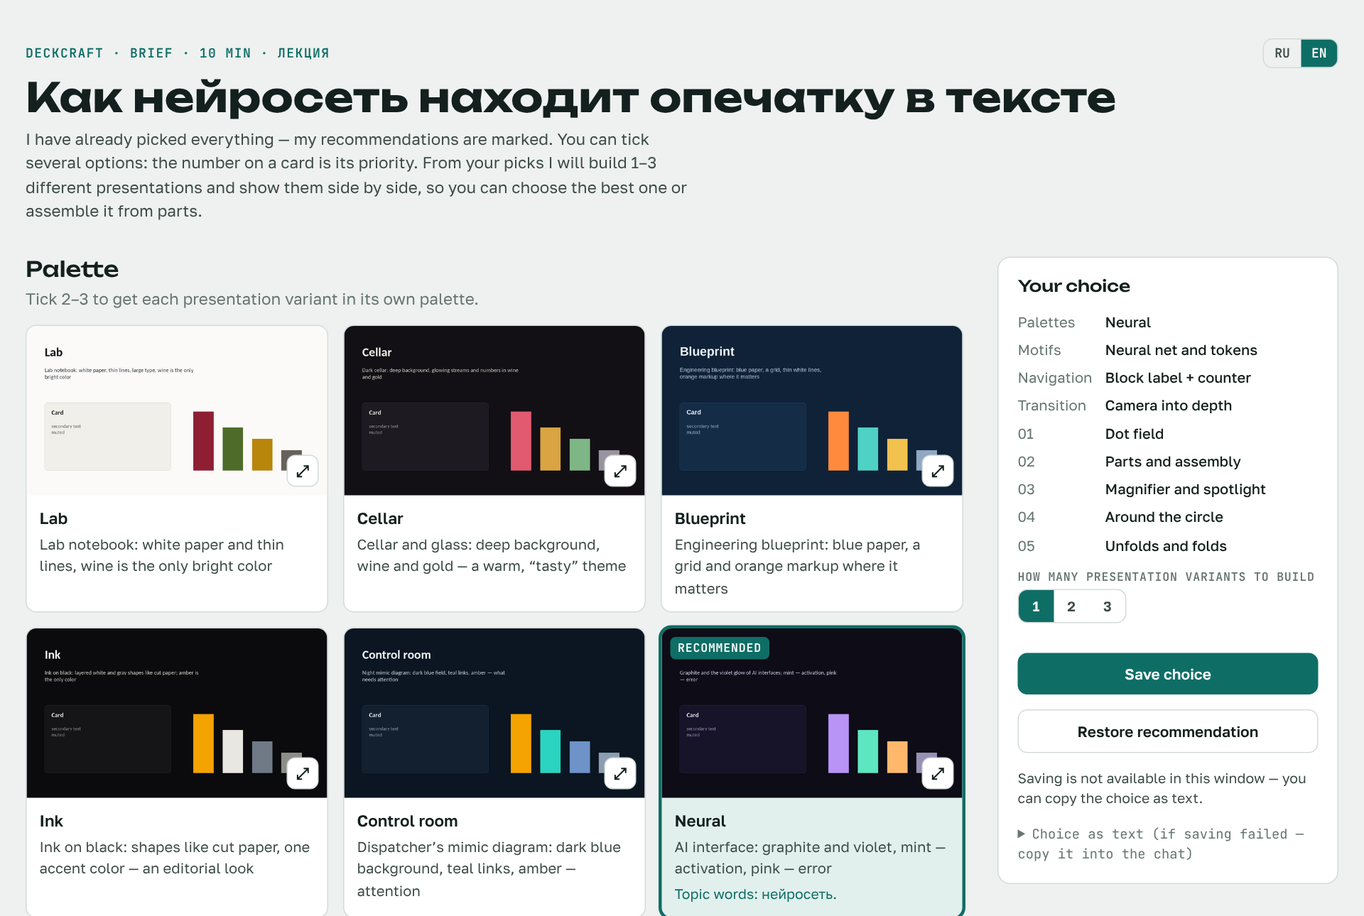
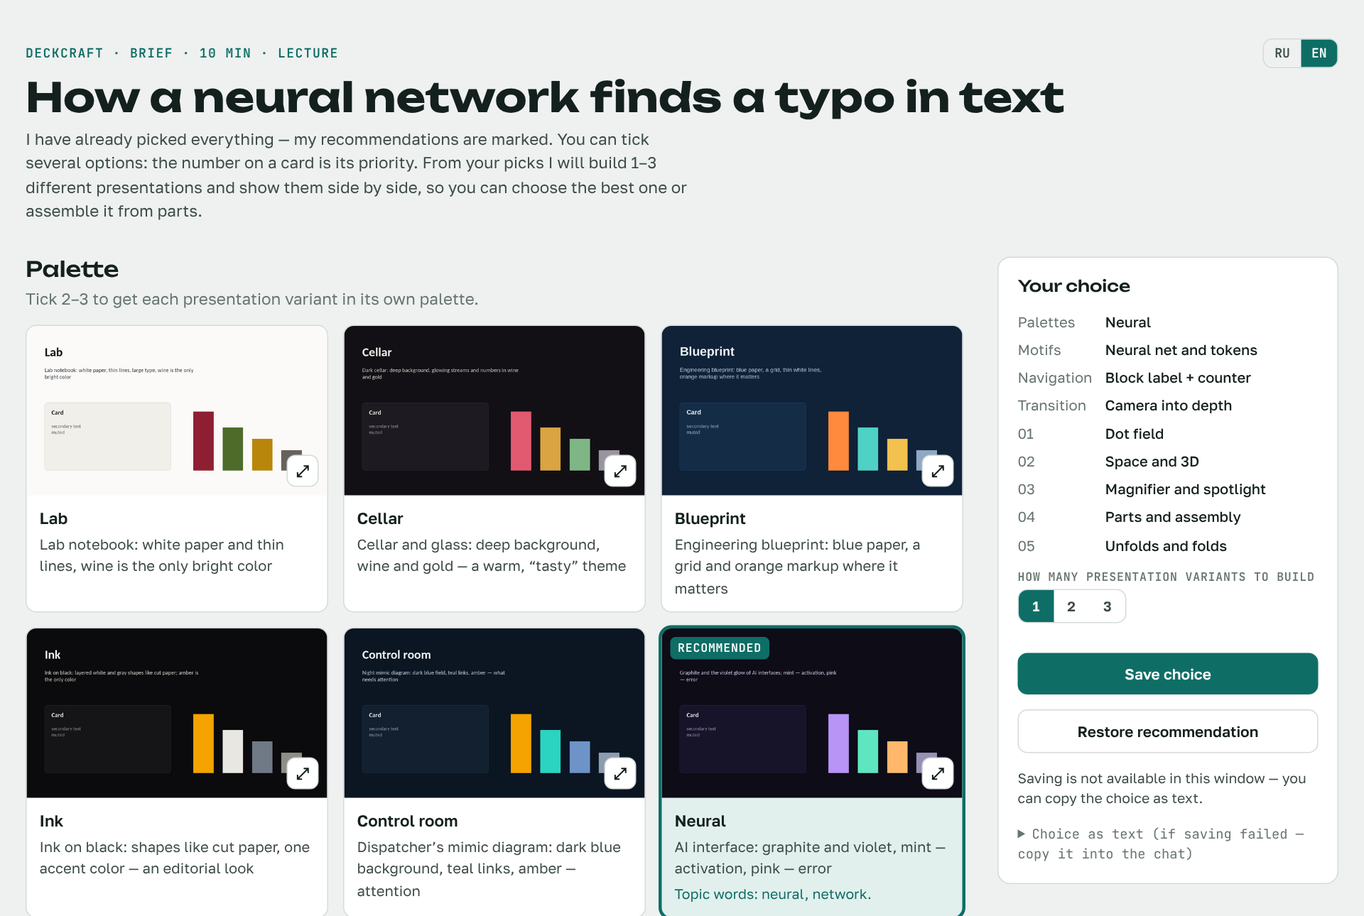
deckcraft 0.2.1: RU/EN switch translates the user's topic, sections and audience
- brief_page.py --alt-topic/--alt-sections/--alt-audience, compare_page.py --alt-topic;
  the choice is kept by the original section names; topic words come from the translated text
- README: English survey screenshot from an English page

Claude-Session: https://claude.ai/code/session_01E4yib89GjrqZMM9aE3pA1m

diff --git a/plugins/deckcraft/skills/deck-brief/scripts/brief_page.html b/plugins/deckcraft/skills/deck-brief/scripts/brief_page.html
@@ -165,15 +165,17 @@ function langSwitch(onChange) {
 
 
 let rec = DATA.brief;
+const K = s => s.key || s.section;  // section key = its name as the user wrote it; s.section is shown
 const AX = [["palette", "palettes"], ["motif", "motifs"], ["navigation", "navigation"]];
 // Состояние v2: в осях — списки (порядок = приоритет), у разделов — пул языков (первый — ведущий)
 const recState = () => ({
   palettes: [rec.palette.key], motifs: [rec.motif.key], navigation: [rec.navigation.key],
   transition: { main: rec.transition.key, accents: [] },
-  sections: Object.fromEntries(rec.sections.map(s => [s.section, [s.motion]])), variants: 1, notes: ""
+  sections: Object.fromEntries(rec.sections.map(s => [K(s), [s.motion]])), variants: 1, notes: ""
 });
 let state = recState();
 const draftKey = "deckbrief2:" + (DATA.id || rec.topic);
+const topic0 = (PACK[PACK.lang] || DATA).brief.topic;  // the topic as the user wrote it — the saved choice uses it
 try { const d = JSON.parse(localStorage.getItem(draftKey) || "null"); if (d && d.palettes) state = { ...state, ...d }; } catch (e) {}
 
 const $ = (s, el = document) => el.querySelector(s);
@@ -269,20 +271,20 @@ function render() {
   ]));
   main.append(det);
 
-  const recMap = Object.fromEntries(rec.sections.map(s => [s.section, s]));
+  const recMap = Object.fromEntries(rec.sections.map(s => [K(s), s]));
   main.append(h("section", { id: "langs" }, [
     h("h2", { text: T("Язык движения по разделам") }),
     h("p", { class: "hint", text: T("Отметьте 1–3 языка на раздел. Первый — ведущий, остальные — вставками внутри раздела; ")
       + T("в вариантах презентации ведущим по очереди становится следующий. ★ — моя рекомендация.") }),
     h("div", { class: "rows" }, rec.sections.map(s => {
-      const pool = state.sections[s.section] || (state.sections[s.section] = [s.motion]);
+      const pool = state.sections[K(s)] || (state.sections[K(s)] = [s.motion]);
       const byKey = Object.fromEntries(DATA.motion.map(m => [m.key, m]));
       const lead = byKey[pool[0]] || DATA.motion[0];
       const img = h("img", { class: "zoomable", src: lead.img || "", alt: T("Превью: ") + lead.title, loading: "lazy" });
       const cap = h("span", { class: "cap", text: lead.title });
       const show = m => { if (m && m.img) { img.src = m.img; img.alt = T("Превью: ") + m.title; cap.textContent = m.title; } };
       return h("div", { class: "row" }, [
-        h("div", { class: "sec" }, [document.createTextNode(s.section), h("small", { text: recMap[s.section].reason })]),
+        h("div", { class: "sec" }, [document.createTextNode(s.section), h("small", { text: recMap[K(s)].reason })]),
         h("div", { class: "pv", title: T("Как выглядит ведущий язык; наведите на вариант справа, чтобы посмотреть его") }, [img, cap]),
         h("div", { class: "chips" }, DATA.motion.map(m => {
           const pos = pool.indexOf(m.key);
@@ -339,7 +341,7 @@ function summary() {
   add(T("Навигация"), titles(DATA.navigation, state.navigation));
   add(T("Переход"), titleOf(DATA.transitions, state.transition.main)
     + (state.transition.accents.length ? " + " + titles(DATA.accents, state.transition.accents) : ""));
-  rec.sections.forEach((s, i) => add(String(i + 1).padStart(2, "0"), titles(DATA.motion, state.sections[s.section] || [])));
+  rec.sections.forEach((s, i) => add(String(i + 1).padStart(2, "0"), titles(DATA.motion, state.sections[K(s)] || [])));
 
   const nv = $("#nvar"); nv.replaceChildren();
   [1, 2, 3].forEach(n => nv.append(h("button", { type: "button", "aria-pressed": String(state.variants === n), text: String(n),
@@ -358,8 +360,8 @@ function summary() {
 }
 
 function payload() {
-  return { schema: 2, topic: rec.topic, palettes: state.palettes, motifs: state.motifs, navigation: state.navigation,
-    transition: state.transition, sections: Object.fromEntries(rec.sections.map(s => [s.section, state.sections[s.section]])),
+  return { schema: 2, topic: topic0, palettes: state.palettes, motifs: state.motifs, navigation: state.navigation,
+    transition: state.transition, sections: Object.fromEntries(rec.sections.map(s => [K(s), state.sections[K(s)]])),
     variants: state.variants, notes: state.notes || "" };
 }
 function persist() { try { localStorage.setItem(draftKey, JSON.stringify(state)); } catch (e) {} }
@@ -404,7 +406,7 @@ render();
     } else if (saved && saved.palette) {  // выбор из версии 0.1: по одному пункту — переносим в списки
       state.palettes = [saved.palette]; state.motifs = [saved.motif]; state.navigation = [saved.navigation];
       state.transition = { main: saved.transition, accents: [] };
-      for (const s of saved.sections || []) if (s.section in state.sections) state.sections[s.section] = [s.motion];
+      for (const s of saved.sections || []) if (K(s) in state.sections) state.sections[K(s)] = [s.motion];
       state.notes = saved.notes || ""; render(); status(T("Загружен ваш прошлый выбор — теперь можно отметить по несколько вариантов."));
     }
   } catch (e) { /* чтение без доступа — работаем локально */ }

diff --git a/plugins/deckcraft/skills/pptx-morph/scripts/morphkit/catalog.py b/plugins/deckcraft/skills/pptx-morph/scripts/morphkit/catalog.py
@@ -210,7 +210,9 @@ def auto_brief(topic: str, sections: list[str], audience: str = "", minutes: int
 
 def localize_brief(brief: dict, lang: str) -> dict:
     """Тот же бриф (те же ключи и совпавшие слова темы) с подписями и причинами на языке lang —
-    для переключателя языка на странице опроса. Тема, разделы и аудитория остаются как написал пользователь."""
+    для переключателя языка на странице опроса. Тему, разделы и аудиторию на втором языке даёт brief["alt"][lang]
+    ({"topic", "audience", "sections": [...]}, их пишет Claude при создании брифа); без него они остаются как
+    написал пользователь. У каждого раздела key — исходное название: выбор на странице хранится по нему."""
     from .i18n import tr, ui
     from .palette import CATALOG
 
@@ -234,17 +236,42 @@ def localize_brief(brief: dict, lang: str) -> dict:
                 "reason": w[0].upper() + w[1:] + (f". {ui('topic_words', lang)}: {', '.join(hits)}." if hits else ".")}
 
     b = brief
+    alt = (b.get("alt") or {}).get(lang) or {}
+    names = alt.get("sections") or []
+
+    def words(tags, text, fallback):
+        """Topic words on the page's language: matched in the translated text if there is one."""
+        if not text:
+            return list(fallback or [])
+        low, hits = text.lower(), []
+        for t in tags:
+            m = re.search(r"\b" + t, low)
+            if m:
+                hits.append(re.match(r"\w+", low[m.start():]).group(0))
+        return list(dict.fromkeys(hits))
+
+    tags_of = lambda choices, key: next((c.tags for c in choices if c.key == key), [])  # noqa: E731
+    ph = words(pals[b["palette"]["key"]].tags if b["palette"]["key"] in pals else [], alt.get("topic"),
+               b["palette"].get("hits"))
+    mh = words(tags_of(MOTIFS, b["motif"]["key"]), alt.get("topic"), b["motif"].get("hits"))
     out = dict(b, lang=lang)
-    out["palette"] = {**pal(b["palette"]["key"], b["palette"].get("hits") or []), "hits": b["palette"].get("hits") or [],
+    out["palette"] = {**pal(b["palette"]["key"], ph), "hits": ph,
                       "alternatives": [pal(a["key"]) for a in b["palette"].get("alternatives", [])]}
     m = b["motif"]
-    out["motif"] = {"key": m["key"], "title": title(MOTIFS, m["key"]), "hits": m.get("hits") or [],
-                    "reason": why(MOTIFS, m["key"], m.get("hits") or []),
+    out["motif"] = {"key": m["key"], "title": title(MOTIFS, m["key"]), "hits": mh,
+                    "reason": why(MOTIFS, m["key"], mh),
                     "alternatives": [{"key": a["key"], "title": title(MOTIFS, a["key"])} for a in m.get("alternatives", [])]}
     out["navigation"] = {"key": b["navigation"]["key"], "title": title(NAVIGATION, b["navigation"]["key"])}
     out["transition"] = {"key": b["transition"]["key"], "title": title(TRANSITIONS, b["transition"]["key"])}
-    out["sections"] = [dict(s, title=title(MOTION, s["motion"]), reason=why(MOTION, s["motion"], s.get("hits") or []))
-                       for s in b.get("sections", [])]
+    secs = []
+    for k, s_ in enumerate(b.get("sections", [])):
+        nm = names[k] if k < len(names) and names[k] else ""
+        hh = words(tags_of(MOTION, s_["motion"]), nm, s_.get("hits"))
+        secs.append(dict(s_, key=s_.get("key") or s_["section"], section=nm or s_["section"], hits=hh,
+                         title=title(MOTION, s_["motion"]), reason=why(MOTION, s_["motion"], hh)))
+    out["sections"] = secs
+    out["topic"] = alt.get("topic") or b["topic"]
+    out["audience"] = alt.get("audience") or b.get("audience", "")
     return out
 
 

diff --git a/plugins/deckcraft/skills/deck-brief/scripts/brief_page.py b/plugins/deckcraft/skills/deck-brief/scripts/brief_page.py
@@ -35,11 +35,11 @@ def _items(choices, gifs: dict, lang: str) -> list[dict]:
     return out
 
 
-def _page_data(index: dict, brief: dict, lang: str, prefix: str = "") -> dict:
+def _page_data(index: dict, brief: dict, lang: str, prefix: str = "", page_id: str = "") -> dict:
     """Данные страницы на одном языке. prefix — подпапка с картинками этого языка (en/), если они есть."""
     gifs = {k: prefix + v for k, v in index["gifs"].items()}
     cap = lambda t: t[0].upper() + t[1:]  # noqa: E731
-    return {"id": brief.get("id") or brief["topic"], "brief": brief, "lang": lang,
+    return {"id": page_id or brief.get("id") or brief["topic"], "brief": brief, "lang": lang,
             "palettes": [{"key": p["key"], "title": tr(p["title"], lang), "why": cap(tr(p["why"], lang)),
                           "img": prefix + p["png"]} for p in index["palettes"]],
             "motifs": _items(MOTIFS, gifs, lang), "navigation": _items(NAVIGATION, gifs, lang),
@@ -65,8 +65,9 @@ def build(assets: Path, brief: dict, lang: str = "ru", assets_other: Path | None
             dst = assets / prefix / rel
             dst.parent.mkdir(parents=True, exist_ok=True)
             shutil.copy(assets_other / rel, dst)
-    pack = {"lang": lang, lang: _page_data(index, brief, lang),
-            other: _page_data(index_o, localize_brief(brief, other), other, prefix)}
+    pid = brief.get("id") or brief["topic"]  # one id for both languages: the draft and the choice are shared
+    pack = {"lang": lang, lang: _page_data(index, brief, lang, page_id=pid),
+            other: _page_data(index_o, localize_brief(brief, other), other, prefix, page_id=pid)}
     tpl = (HERE / "brief_page.html").read_text()
     ui_en = json.loads((HERE.parents[1] / "pptx-morph" / "scripts" / "morphkit" / "data" / "ui_en.json").read_text())
     html = tpl.replace("/*DATA*/null", json.dumps(pack, ensure_ascii=False).replace("</", "<\\/")).replace(
@@ -93,6 +94,9 @@ def main() -> None:
     ap.add_argument("--minutes", type=int, default=10)
     ap.add_argument("--lang", default="ru", help="ru | en — язык, который страница показывает первым")
     ap.add_argument("--assets-other", type=Path, help="превью на втором языке (lab.previews --lang ...)")
+    ap.add_argument("--alt-topic", help="тема на втором языке (для переключателя RU/EN)")
+    ap.add_argument("--alt-sections", help="разделы на втором языке через |, в том же порядке")
+    ap.add_argument("--alt-audience", help="аудитория на втором языке")
     a = ap.parse_args()
     if a.brief:
         brief = json.loads(a.brief.read_text())
@@ -100,6 +104,13 @@ def main() -> None:
         brief = auto_brief(a.topic, [s.strip() for s in a.sections.split("|") if s.strip()], a.audience, a.minutes,
                            lang=a.lang)
         (a.assets / "brief.json").write_text(json.dumps(brief, ensure_ascii=False, indent=1))
+    if a.alt_topic or a.alt_sections or a.alt_audience:
+        other = "ru" if str(a.lang).startswith("en") else "en"
+        brief.setdefault("alt", {})[other] = {k: v for k, v in {
+            "topic": a.alt_topic, "audience": a.alt_audience,
+            "sections": [x.strip() for x in a.alt_sections.split("|")] if a.alt_sections else None}.items() if v}
+        if not a.brief:
+            (a.assets / "brief.json").write_text(json.dumps(brief, ensure_ascii=False, indent=1))
     m = build(a.assets, brief, a.lang, a.assets_other)
     print(json.dumps({k: v for k, v in m.items() if k != "files"} | {"n_files": len(m["files"])}, ensure_ascii=False))
 

diff --git a/plugins/deckcraft/skills/deck-build/scripts/compare_page.py b/plugins/deckcraft/skills/deck-build/scripts/compare_page.py
@@ -2,6 +2,7 @@
 выбор «лучший целиком» или «собрать из частей»; решение сохраняется в db артефакта (doc compare/choice).
 
     python compare_page.py OUT_DIR VAR_DIR [VAR_DIR ...] --topic "..." --brief-url https://claude.ai/artifact/...
+        [--lang ru|en] [--alt-topic "тема на втором языке"]
 
 Сравнение строится только из вариантов, собранных по сохранённому выбору опроса (/deck-brief): тема и ссылка на
 опрос показываются в шапке страницы.
@@ -44,8 +45,10 @@ def _titles(v: dict, lang: str) -> dict:
             "transition_title": accents or tr("только Morph", lang)}
 
 
-def build(out: Path, var_dirs: list[Path], topic: str = "", brief_url: str = "", lang: str = "ru") -> dict:
-    """lang — язык, который страница показывает первым; второй доступен переключателем RU/EN."""
+def build(out: Path, var_dirs: list[Path], topic: str = "", brief_url: str = "", lang: str = "ru",
+          alt_topic: str = "") -> dict:
+    """lang — язык, который страница показывает первым; второй доступен переключателем RU/EN.
+    alt_topic — тема на втором языке (без неё в обоих языках тема как написал пользователь)."""
     lang = "en" if str(lang).lower().startswith("en") else "ru"
     set_lang(lang)
     out.mkdir(parents=True, exist_ok=True)
@@ -72,7 +75,7 @@ def build(out: Path, var_dirs: list[Path], topic: str = "", brief_url: str = "",
                        "qa": {"lint": r["lint_errors"], "motion": r["motion_lint"], "xsd": r["xsd"]}})
     pack = {"lang": lang}
     for lg in ("ru", "en"):
-        pack[lg] = {"topic": topic, "brief_url": brief_url, "lang": lg,
+        pack[lg] = {"topic": topic if lg == lang or not alt_topic else alt_topic, "brief_url": brief_url, "lang": lg,
                     "variants": [{**c, **_titles(c["variant"], lg)} for c in common],
                     "moments": [(k, tr(t, lg)) for k, t in MOMENTS]}
     ui_en = json.loads((HERE.parents[1] / "pptx-morph" / "scripts" / "morphkit" / "data" / "ui_en.json").read_text())
@@ -89,13 +92,13 @@ def build(out: Path, var_dirs: list[Path], topic: str = "", brief_url: str = "",
 def main() -> None:
     args = [a for a in sys.argv[1:]]
     opts = {}
-    for flag in ("--topic", "--brief-url", "--lang"):
+    for flag in ("--topic", "--brief-url", "--lang", "--alt-topic"):
         if flag in args:
             i = args.index(flag)
             opts[flag] = args[i + 1]
             del args[i:i + 2]
     m = build(Path(args[0]), [Path(a) for a in args[1:]], opts.get("--topic", ""), opts.get("--brief-url", ""),
-              opts.get("--lang", "ru"))
+              opts.get("--lang", "ru"), opts.get("--alt-topic", ""))
     print(json.dumps({"page": m["page"], "n_files": len(m["files"]), "size_mb": m["size_mb"]}, ensure_ascii=False))
 
 

diff --git a/plugins/deckcraft/skills/deck-brief/SKILL.ru.md b/plugins/deckcraft/skills/deck-brief/SKILL.ru.md
@@ -56,7 +56,9 @@ python3 -c "from morphkit.catalog import auto_brief; import json; print(json.dum
 2. Страница: `python3 scripts/brief_page.py <scratchpad>/brief_assets --brief out/decks/<slug>/brief.json --lang <lang>
    --assets-other <scratchpad>/brief_assets_<other>` → `index.html` и `publish.json` (карта файлов). Страница открывается
    на `<lang>`, в углу — переключатель RU/EN: меняются подписи, причины и GIF, выбор сохраняется. Без `--assets-other`
-   второй язык показывает те же GIF с переведёнными подписями.
+   второй язык показывает те же GIF с переведёнными подписями. Всегда добавляй тему, разделы и аудиторию
+   пользователя в переводе на второй язык: `--alt-topic "…" --alt-sections "…|…" --alt-audience "…"` (тот же порядок
+   разделов; переводи сам) — иначе после переключения они останутся на языке пользователя.
 3. Публикация: инструмент Artifact, `file_path` = index.html, `files` = карта из publish.json,
    `capabilities: {"db": {}}`, `icon: "palette"`. Страница сохраняет выбор в документ `brief/choice`.
 4. Скажи пользователю: открыть ссылку, поменять что хочется, нажать «Сохранить выбор» и написать «готово».

diff --git a/plugins/deckcraft/skills/deck-brief/SKILL.md b/plugins/deckcraft/skills/deck-brief/SKILL.md
@@ -56,7 +56,9 @@ a complex picture where there is little text. Ask one thing: “shall I build it
 2. Page: `python3 scripts/brief_page.py <scratchpad>/brief_assets --brief out/decks/<slug>/brief.json --lang <lang>
    --assets-other <scratchpad>/brief_assets_<other>` → `index.html` and `publish.json` (file map). The page opens in
    `<lang>` and has an RU/EN switch in the corner: captions, reasons and GIFs change, the choice stays. Without
-   `--assets-other` the second language shows the same GIFs with translated captions.
+   `--assets-other` the second language shows the same GIFs with translated captions. Always add the user's topic,
+   sections and audience translated into the other language: `--alt-topic "…" --alt-sections "…|…" --alt-audience "…"`
+   (same order of sections; translate them yourself) — otherwise they stay in the user's language after the switch.
 3. Publishing: the Artifact tool, `file_path` = index.html, `files` = the map from publish.json,
    `capabilities: {"db": {}}`, `icon: "palette"`. The page saves the choice to the document `brief/choice`.
 4. Tell the user: open the link, change whatever they want, press “Save choice” and write “done”.

diff --git a/plugins/deckcraft/skills/deck-build/SKILL.ru.md b/plugins/deckcraft/skills/deck-build/SKILL.ru.md
@@ -43,7 +43,7 @@ argument-hint: "[brief.json]"
 - Каждый вариант — своя папка: .pptx, `report.json` (variant, проверки, `gifs` одних и тех же моментов, `pattern`),
   `sheet.png`. Проверка §2 — у каждого.
 - Сравнение — **только после сборки** вариантов по сохранённому выбору опроса (без опроса не публикуй):
-  `python3 scripts/compare_page.py OUT VAR_A VAR_B VAR_C --topic "…" --brief-url <ссылка на опрос> --lang <lang>`
+  `python3 scripts/compare_page.py OUT VAR_A VAR_B VAR_C --topic "…" --brief-url <ссылка на опрос> --lang <lang> --alt-topic "<тема на втором языке>"`
   (на странице переключатель RU/EN; GIF — из собранной презентации) → публикуй как артефакт
   (`files` из publish.json, `capabilities: {"db": {}}`, `icon: "compare"`). Решение — ArtifactData `get`
   `compare`/`choice`: `best` (A/B/C или "mix"), `from` (ось → вариант), `result` (итоговые палитра, навигация,

diff --git a/plugins/deckcraft/skills/deck-build/SKILL.md b/plugins/deckcraft/skills/deck-build/SKILL.md
@@ -43,7 +43,7 @@ Write `out/decks/<slug>/build_deck.py` (do not edit XML by hand): `sys.path` →
 - Each variant gets its own folder: .pptx, `report.json` (variant, checks, `gifs` of the same moments, `pattern`),
   `sheet.png`. The §2 checks — for each one.
 - The comparison — **only after building** the variants from the saved survey choice (do not publish without a survey):
-  `python3 scripts/compare_page.py OUT VAR_A VAR_B VAR_C --topic "…" --brief-url <link to the survey> --lang <lang>`
+  `python3 scripts/compare_page.py OUT VAR_A VAR_B VAR_C --topic "…" --brief-url <link to the survey> --lang <lang> --alt-topic "<topic in the other language>"`
   (the page has an RU/EN switch; the GIFs are those of the built presentation) → publish as an artifact
   (`files` from publish.json, `capabilities: {"db": {}}`, `icon: "compare"`). The decision — ArtifactData `get`
   `compare`/`choice`: `best` (A/B/C or "mix"), `from` (axis → variant), `result` (final palette, navigation,

diff --git a/CHANGELOG.md b/CHANGELOG.md
@@ -1,5 +1,11 @@
 # Changelog
 
+## 0.2.1 — 2026-10-13
+- RU/EN switch translates the user's topic, sections and audience too (the brief stores them in both languages:
+  `brief_page.py --alt-topic --alt-sections --alt-audience`, `compare_page.py --alt-topic`); topic words in the
+  reasons come from the translated text. The choice is kept by the original section names.
+- README: the English survey screenshot shows an English page.
+
 ## 0.2.0 — 2026-10-13
 - Survey: pick several palettes, motifs, navigation systems, accent transitions and motion languages per section
   (the number on a card is its priority); the plan of presentation variants A/B/C is shown live. Every item has a GIF
